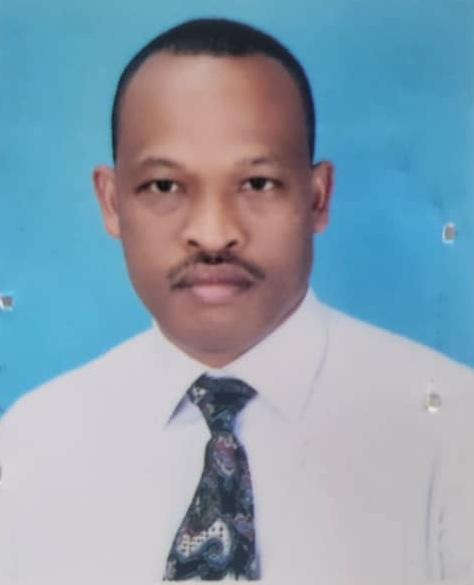
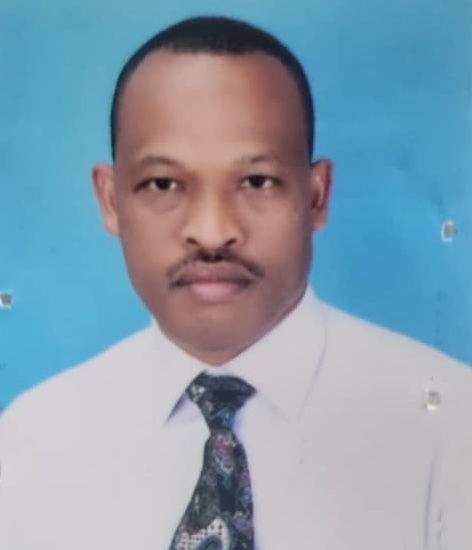
board members picture updated

diff --git a/aipm_web/src/pages/Users/OurStory.js b/aipm_web/src/pages/Users/OurStory.js
@@ -8,6 +8,7 @@ import amsaluMekonnen from "../../assets/Team/amsaluMekonnen.jpg";
 import tagesseAbo from "../../assets/Team/tagesseAbo.jpg";
 import calebAyele from "../../assets/Team/calebAyele.jpg";
 import destaLangena from "../../assets/Team/destaLangena.jpg";
+import tesemaMelese from "../../assets/Team/tesemaMelese.jpg";
 
 const ACTS = [
   {
@@ -90,12 +91,11 @@ const VALUES = [
   { n: "03", title: "Gospel Advancement", body: "We send equipped disciples to plant churches that will reach the world." },
 ];
 
-// Ato Tesema Melese's photo is still to come — initials show until an `img` is added.
 const TEAM = [
   { initials: "DL", img: destaLangena, name: "Dr. Desta Langena", role: "Founder and Director" },
   { initials: "HE", img: hailuElias, name: "Dr. Hailu Elias", role: "Chairman" },
   { initials: "AM", img: amsaluMekonnen, name: "Ato Amsalu Mekonnen", role: "Board Member" },
-  { initials: "TM", name: "Ato Tesema Melese", role: "Board Member" },
+  { initials: "TM", img: tesemaMelese, name: "Ato Tesema Melese", role: "Board Member" },
   { initials: "TA", img: tagesseAbo, name: "Dr. Tagesse Abo", role: "Board Member" },
   { initials: "CA", img: calebAyele, name: "Pastor Kaleb Ayele", role: "Coordinator" },
 ];

diff --git a/aipm_web/src/styles/site.css b/aipm_web/src/styles/site.css
@@ -287,7 +287,7 @@
 .aipm .team-grid{display:grid; grid-template-columns:repeat(3,1fr); gap:28px;}
 .aipm .teamcard{text-align:left;}
 .aipm .teamcard .avatar{width:100%; aspect-ratio:1; border-radius:8px; background:linear-gradient(135deg,var(--ink-2),var(--ink)); display:flex; align-items:center; justify-content:center; margin-bottom:16px; position:relative; overflow:hidden;}
-.aipm .teamcard .avatar img{width:100%;height:100%;object-fit:cover;}
+.aipm .teamcard .avatar img{width:100%;height:100%;object-fit:cover;object-position:center 20%;}
 .aipm .teamcard .avatar .mono{font-family:"Fraunces",serif; font-size:34px; color:var(--gold-pale); font-weight:600;}
 .aipm .teamcard .name{font-weight:700; font-size:16px;}
 .aipm .teamcard .role{color:var(--accent-deep); font-size:12px; letter-spacing:.04em; text-transform:uppercase; font-weight:700; margin-top:4px;}
